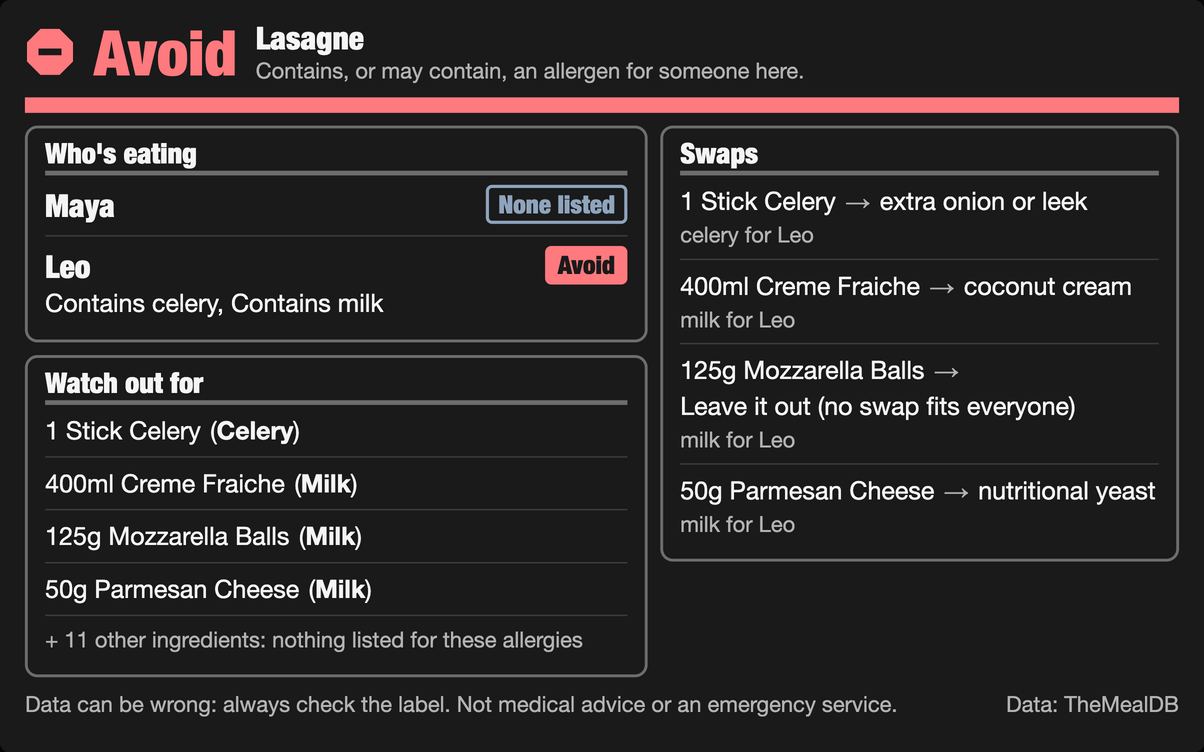
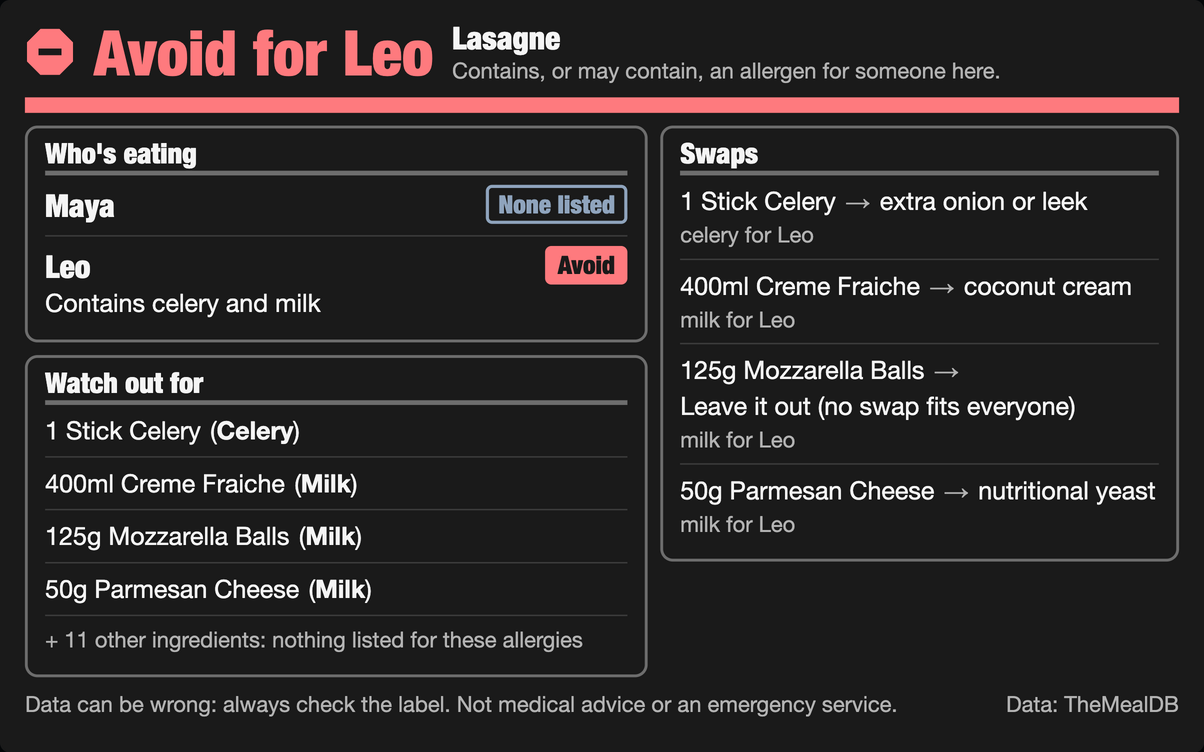
docs: demo video v9

Changed region(s): [[0.2151, 0.0306, 0.8297, 0.1223], [0.1844, 0.3976, 0.338, 0.4282]]

diff --git a/docs/SUBMISSION.md b/docs/SUBMISSION.md
@@ -15,8 +15,10 @@ An Alexa+ add-on that tells you who at the table can eat a dish or a scanned foo
 
 Who at the table can eat tonight's dinner, and why? Allergy Crosscheck answers that by voice and on the Echo Show screen, for the whole household and its guests, from a recipe or a scanned product. When the data can't back an answer, it says "I can't confirm" instead of guessing.
 
+What is real and what is simulated: the MCP server, the allergen engine, the Echo Show screen and the phone scan are the shipped code; the Alexa+ host in the video is a simulator driven by a local model, because the MCP Toolkit is available in the United States and I am outside it (details under "Simulated Alexa+" below).
+
 ### Inspiration
-Two real records from Open Food Facts, the open database behind many allergy apps. A chocolate hazelnut spread has an empty allergen list and no ingredient list, so a checker that trusts the list would call it allergen-free. A hot cocoa mix lists soy as its only allergen, while its ingredients include nonfat dry milk, whey and caseinate. A voice assistant that answers confidently from data like that is dangerous. One that knows when it doesn't know is useful.
+Two real records from Open Food Facts, the open database behind many allergy apps. A chocolate hazelnut spread has an empty allergen list and no ingredient list, so a checker that trusts the list would call it allergen-free. A hot cocoa mix lists soy as its only allergen and milk only as a "may contain", while its ingredients include nonfat dry milk, whey and caseinate. A voice assistant that answers confidently from data like that is dangerous. One that knows when it doesn't know is useful.
 
 This is common. I ran the engine over all 4,784,317 Open Food Facts records (snapshot of 7 October 2026). 72.3% of them list no allergens, no "may contain", and have no ingredient list. So do 53.2% of the products scanned in the Open Food Facts app. A checker that trusts the list would say "no allergens" for each one; this one says "can't confirm". Details: [`packages/allergen-guard/bench/README.md`](packages/allergen-guard/bench/README.md). Data: Open Food Facts (ODbL).
 
@@ -41,7 +43,7 @@ Say Maya can't have peanuts or tree nuts, and Leo from next door, who can't have
   - **MCP Apps:** the Echo Show screen, with tap-to-choose that calls back into the server (`public/widget.html`).
   - **Cards, partly:** the screen is made of card panels: "Who's eating", "Watch out for", "Swaps", "Which one?" and "Shopping list". These are HTML sections I drew inside the MCP Apps view, not Alexa+'s own card or carousel components, and there are no images or media.
   - **Not built:** purchasing, and Agent Skills.
-  - **A cross-check, not a lookup:** a product's allergen tags, traces and ingredient text are read together, which is how it finds the milk that the cocoa mix's tags leave out.
+  - **A cross-check, not a lookup:** a product's allergen tags, traces and ingredient text are read together, which is how the cocoa mix's "may contain milk" becomes a firm "contains milk" with the ingredients named.
 - **Self-hosted MCP server** in TypeScript with the MCP TypeScript SDK 1.32. It uses MCP spec **2025-11-25** over **Streamable HTTP**, is stateless, and has 9 tools. Every check result (`check_recipe`, `check_product`) leads with a `VERDICT:` line, and every result carries the exact sentence to say, plus `structuredContent` for the screen.
 - **MCP Apps screen** for the Echo Show (`text/html;profile=mcp-app`), following the Alexa+ MCP design guide's base canvas, zoom, touch-target and contrast figures, and using the `hostContext` fields theme, safeAreaInsets, maxWidth and maxHeight:
   - authored at the guide's 768×480 base canvas with its type, spacing and corner-radius tokens; the widget applies one root scale from `hostContext` maxWidth/maxHeight, 1.667 for the Echo Show 8's 1280×800 (guide figures), and each demo verdict fits both with no scrolling (measured in headless Chrome, not on a real Echo Show);
@@ -84,7 +86,7 @@ Say Maya can't have peanuts or tree nuts, and Leo from next door, who can't have
 ### Accomplishments that I'm proud of
 - The server's results never call a food "safe"; the engine's tests check that, and a simulator test checks that a fake model's "totally safe" is overridden. On a real Alexa+ the spoken words are the model's.
 - One spoken question checks everyone at the table, including a guest who drops off after the visit.
-- It finds the milk in a real cocoa mix whose allergen tags miss it.
+- In a real cocoa mix whose tags carry milk only as "may contain", it shows the milk is in the ingredients.
 - It follows MCP spec 2025-11-25 over Streamable HTTP, with an MCP Apps screen authored at the Alexa+ 768×480 base canvas and checked in an Echo Show 8 simulator frame (untested on a real Echo Show).
 - The language model runs locally (Qwen3.5 9B, 4-bit, MLX), with no cloud LLM API; product and recipe data come live from Open Food Facts and TheMealDB.
 
@@ -107,14 +109,15 @@ alexa+, model-context-protocol, mcp-apps, streamable-http, typescript, node.js, 
 - Code repository: <GitHub URL, once the author decides private or public>
 
 ## Video demo link
-<YouTube URL, after the upload>. The file is `docs/video/allergy-crosscheck-demo.mp4` (2:57, 4K at 60 fps, recorded 11 October 2026), with captions in `docs/video/allergy-crosscheck-demo.srt`.
+<YouTube URL, after the upload>. The file is `docs/video/allergy-crosscheck-demo.mp4` (2:50, 4K at 60 fps, recorded 12 October 2026), with captions in `docs/video/allergy-crosscheck-demo.srt`.
 
 ## Image gallery (upload in this order)
 Files are in `docs/video/gallery/`, padded to 3:2.
 1. `1-cannot-confirm.png`: "Missing product data: 'Can't confirm', never 'allergen-free'."
 2. `2-lasagne-check.png`: "One question gives a verdict for everyone at the table, with swaps checked against all of them."
-3. `3-product-check.png`: "The allergen tags say soy; the ingredient text adds the milk."
+3. `3-product-check.png`: "The allergen tags say soy, and milk only as a 'may contain'. The ingredient text shows the milk is in it."
 4. `4-phone-scan.png`: "Scan on your phone, then ask about 'what I just scanned'."
+5. `5-sunday.png`: "A new session the day after: the household is remembered, the guest's visit is over."
 
 ## Additional info (the hackathon's questions)
 
@@ -132,7 +135,7 @@ Node 22.6 or newer. Run `npm install && npm start`, then open http://127.0.0.1:8
 
 The demo-script buttons call the MCP tools directly and need no model or API key. They reproduce the video's checks:
 - the spread with no ingredient list gives "Can't confirm";
-- the cocoa mix whose tags miss the milk gives "Avoid" for Leo.
+- the cocoa mix whose tags carry milk only as "may contain" gives "Avoid" for Leo, with the milk ingredients named.
 
 To talk to it, set `LLM_BASE_URL` and `LLM_MODEL` to any OpenAI-compatible endpoint with tool calling (see the README). Any MCP client can connect to `http://127.0.0.1:8787/mcp`. `npm test` runs the 146 tests.
 
@@ -167,7 +170,7 @@ For each tool: what it was used for, what worked, what needs work, onboarding, a
 - **Onboarding:** the spec plus the Alexa+ design guide was enough to get a first screen. The host shim I built to test it is part of the simulator.
 
 **Alexa developer console: Voice & Tone** (Test tab)
-- **Used for:** Alexa's five lines in the demo video, in Amazon's own Alexa voice.
+- **Used for:** Alexa's six lines in the demo video, in Amazon's own Alexa voice.
 - **Worked well:** the voice is the real one, and the page's own `getTTS` call returns the audio as a base64 MP3.
 - **Needs work:** no export or download control, and the editor adds its own closing `</speak>` tag, so a typed one causes a 400 (friction log 6).
 - **Onboarding:** the Test tab only opens once a skill exists, so I created an empty private skill for it. Account sign-up also rejected a diacritic in my legal name (friction log 7).
@@ -236,7 +239,7 @@ Paste `docs/FRICTION_LOG.md`: seven entries, in the format the rules ask for.
 - **Why it matters:** allergy features keep being rebuilt in apps and assistants, and the easy version (trust the allergen tags, answer "safe") is dangerous. This gives anyone a tested, fail-closed core. It has 92 tests of its own, including 54 ingredient–allergen pairs that must never pass. The Open Food Facts measurement (above) shows the failure it prevents. The engine is open source (MIT), so any allergy feature can start fail-closed.
 
 ## YouTube upload (not part of the Devpost form)
-- **File:** `docs/video/allergy-crosscheck-demo.mp4` (2:57, 4K at 60 fps), with captions in `docs/video/allergy-crosscheck-demo.srt` (English).
+- **File:** `docs/video/allergy-crosscheck-demo.mp4` (2:50, 4K at 60 fps), with captions in `docs/video/allergy-crosscheck-demo.srt` (English).
 - **Title:** Allergy Crosscheck: who at the table can eat it, and why (Alexa+ hackathon demo)
 - **Visibility:** Public. The rules say "publicly visible", and Unlisted may not count. This is the author's call.
 - **Altered or synthetic content:** yes. The voices are synthetic: Alexa's lines are Amazon's Alexa voice from the developer console; the narrator and the user are AI-generated.
@@ -252,15 +255,16 @@ Built for Amazon's Build, Ship, Shape hackathon (Alexa+ track): a self-hosted MC
 
 Code: <repository URL>
 
-0:00 The problem: a record with an empty allergen list
-0:18 What it does: who at the table can eat it, and why
-0:31 Saving the household and a guest
-0:55 Checking tonight's lasagne for everyone
-1:29 Scan on a phone: missing data means "can't confirm"
-1:48 A cocoa mix whose tags miss the milk
-2:14 Keeping the model honest
-2:23 How it's built
-2:36 Who it's for, and the open engine
+0:00 Cold open: the lasagne verdict
+0:06 The problem: a record with an empty allergen list
+0:32 The simulator
+0:38 Saving the household and a guest
+0:58 Checking the lasagne for everyone
+1:25 Scan on a phone: missing data means "can't confirm"
+1:44 A cocoa mix: the tags say "may contain" milk, the ingredients show it is in
+2:07 Sunday: the guest's visit is over
+2:19 How it's built
+2:31 Who it's for, and the open engine
 ```
 
 ## Repository access (not part of the Devpost form)

diff --git a/docs/DEMO.md b/docs/DEMO.md
@@ -1,13 +1,13 @@
 # Demo video
 
-The submitted video (2:57, 3840×2160 at 60 fps, recorded 11 October 2026) is a real run, not a mock-up:
+The submitted video (2:50, 3840×2160 at 60 fps, recorded 12 October 2026) is a real run, not a mock-up:
 - The simulator was recorded in headless Chrome while a local model (Qwen3.5 9B, MLX) drove the MCP server, with live Open Food Facts and TheMealDB data.
 - The waits for the model were cut.
-- The server's clock was set to 8 October 2026 12:00, the day Alexa's lines were captured, so the guest's end date ("until Saturday 10 October") and every answer match those captures.
+- The server's clock was set to 8 October 2026 12:00 for the first session, so the guest's end date ("until Saturday 10 October") and every answer match Alexa's captured lines. The last turn is a second session on the same household file with the clock at 11 October 2026, the day after the guest's visit ended: the server was restarted, the conversation started fresh, and the household came back from disk.
 - Frames were captured losslessly at 2× device scale (Chrome DevTools screencast) and encoded once at the end, so the text stays sharp at 4K.
 - The simulator shows the screen as an Echo Show 8 would (1280×800, scaled to fit). Captions and the short labels were added in editing, timed to the spoken words; zooms and the dimming around them were recorded in the browser.
 - The opening and closing slides are HTML pages recorded the same way.
-- Alexa's lines are Amazon's own Alexa voice, rendered in the Alexa developer console (a private test skill, Test tab, Voice & Tone) from the exact text the run returned.
+- Alexa's six lines are Amazon's own Alexa voice, rendered in the Alexa developer console (a private test skill, Test tab, Voice & Tone) from the exact text the run returned; the recorder stops if a run's sentence differs from the rendered text.
 - The narrator and the user are local text-to-speech with Boson AI's Higgs Audio (Higgs TTS 3), used under its Creator Use Grant, from reference voices made for this project, so no real person's voice is imitated.
 - Credit, as the licence asks: "This audio was created with Boson AI's Higgs Audio — https://www.boson.ai/higgs-audio".
 - Alexa's lines are exactly what the run returned. Every clip was checked against its script with Whisper.
@@ -16,22 +16,25 @@ The submitted video (2:57, 3840×2160 at 60 fps, recorded 11 October 2026) is a 
 
 ## Script
 
-| On screen | Audio |
-|---|---|
-| A product record: chocolate hazelnut spread, allergens none listed, ingredients missing; a stamp: "A checker that trusts this list: 'No allergens'"; then "4.8 million records in Open Food Facts" and "53% of the products people scan look like this" | "This is a real product record from Open Food Facts: a chocolate hazelnut spread, with an empty allergen list. A checker that only trusts that list would call it allergen-free." "It's not rare: of 4.8 million products in Open Food Facts, more than half of the ones people scan look like this." |
-| Title card with the three verdicts | "Allergy Crosscheck is an Alexa+ add-on that tells you who at the table can eat it, and why." |
-| Simulator, idle | "This is a simulated Alexa+ on an Echo Show: a local AI model drives my MCP server." |
-| Voice turn | User: "Alexa, save Maya. She's allergic to peanuts and tree nuts." Alexa confirms. |
-| Voice turn | User: "Leo from next door is coming on Saturday. He can't have dairy or celery." Alexa: "…guest Leo until Saturday 10 October: milk and celery." Narrator: "It remembers the household across sessions, and stops checking for guests after their visit." |
-| Voice turn: the lasagne verdict, then zooms on the cards | User: "Check tonight's lasagne for Saturday." Alexa: "Leo should avoid this: it contains celery and milk…" Narrator: "For Leo, it's avoid, with the exact ingredients." "For Maya, none of her allergens are listed. That's the yes, as far as the data goes." "Every swap is checked against everyone: no dairy-free cheese, because it's often made from cashews." |
-| Phone scan: the spread's barcode, on the scan page | Narrator: "Reading out a barcode is tedious. Scan it on your phone, then just ask." |
-| Voice turn | User: "Can Maya and Leo have what I just scanned?" Alexa: "I can't confirm this is OK for Maya and Leo: the ingredient list is missing from the product data…" |
-| Phone scan: a hot cocoa mix | (the scan page finds it) |
-| Voice turn, zoom on "What I found" | User: "And this one I just scanned?" Alexa: avoid for Leo (milk, in the whey, caseinate and lactose), can't confirm for Maya. Narrator: "This record lists soy as its only allergen, and milk only as 'may contain'. Crosscheck reads the ingredients and finds the milk." |
-| Slide: keeping the model honest (a model draft with no tool call, struck through and replaced by the simulator's sentence; the tool's own verdict, spoken word for word) | "On a real model, I caught it claiming a save it never made, so my simulator now holds it to the verdict, word for word." The draft on the slide is an example of that kind of claim; the replacement is the simulator's exact sentence. |
-| Slide: under the hood (Alexa+ → MCP server → MCP Apps screen; allergen engine → open data) | "Under the hood: a self-hosted MCP server with nine tools, an MCP Apps screen built to the Alexa+ design guide, and an open-source allergen engine measured on 4.8 million real products." |
-| Slide: 1 in 15 US adults, with the source (CDC, National Health Interview Survey 2024, released 8 January 2026: 6.7% of adults, 5.3% of children) | "About one in fifteen adults in the US has a food allergy, and every shared meal means checking for everyone. Allergy Crosscheck does that check, says so when it can't, and its engine is open source, so any allergy feature can start fail-closed." |
-| End card | "Allergy Crosscheck: who at the table can eat it, and why." |
+| At | On screen | Audio |
+|---|---|---|
+| 0:00 | Cold open: the lasagne verdict screen, "Avoid for Leo"; label "Simulated Alexa+ · Amazon's Alexa voice" | Alexa: "Leo should avoid this: it contains celery and milk, in the celery, creme fraiche and mozzarella." |
+| 0:06 | A product record: chocolate hazelnut spread, allergens none listed, ingredients missing; a stamp: "A checker that trusts this list: 'No allergens'"; then "4.8 million records in Open Food Facts" and "53% of the products people scan look like this" | "This is a real product record from Open Food Facts: a chocolate hazelnut spread, with an empty allergen list. A checker that only trusts that list would call it allergen-free." "Of 4.8 million products in Open Food Facts, more than half of the ones people scan look like this." |
+| 0:22 | Title card: "Alexa+ remembers your allergies." above the title, then the two-line lead and the three verdicts | "Alexa+ already remembers your allergies. Allergy Crosscheck checks the food: who at the table can eat it, and why." |
+| 0:32 | Simulator, idle | "This is a simulated Alexa+ on an Echo Show: a local AI model drives my MCP server." |
+| 0:38 | Voice turn | User: "Alexa, save Maya. She's allergic to peanuts and tree nuts." Alexa confirms. |
+| 0:46 | Voice turn; label "Remembers the household across sessions" | User: "Leo from next door is coming on Saturday. He can't have dairy or celery." Alexa: "…guest Leo until Saturday 10 October: milk and celery." |
+| 0:58 | Voice turn: the lasagne verdict, then zooms on Maya's row and the swaps; labels "The yes: none of her allergens listed" and "Coconut isn't a tree nut (EU 14; FDA, January 2025)" | User: "Check the lasagne." Alexa: "Leo should avoid this: it contains celery and milk, in the celery, creme fraiche and mozzarella. Nothing listed for Maya's allergies, but check the label. Swaps are on the screen." Narrator: "For Maya, none of her allergens are listed. That's the yes, as far as the data goes." "Every swap is checked against everyone: no dairy-free cheese, because it's often made from cashews." |
+| 1:25 | Phone scan: the spread's barcode, on the scan page | Narrator: "Reading out a barcode is tedious. Scan it on your phone, then just ask." |
+| 1:30 | Voice turn; label "Missing data never becomes 'no allergens'" | User: "Can Maya and Leo have what I just scanned?" Alexa: "I can't confirm this is OK for Maya and Leo: the ingredient list is missing from the product data. Treat it as unsafe and check the label." |
+| 1:40 | Phone scan: a hot cocoa mix | (the scan page finds it) |
+| 1:44 | Voice turn, zoom on "What I found"; label "Reads the ingredients, not just the list" | User: "And this one I just scanned?" Alexa: avoid for Leo (milk, in the whey, caseinate and lactose), can't confirm for Maya. Narrator: "The allergen tags say soy, and milk only as a 'may contain'. The ingredient text shows the milk is in it." |
+| 2:07 | Card "Sunday 11 October · a new session", then the idle simulator and the lasagne check again: Maya "None listed", Leo "guest · visit ended Sat 10 Oct · not checked"; label "Next day, new session: household kept, guest not checked" | User: "Check the lasagne again." Alexa: "Leo's visit ended on Saturday 10 October, so I didn't check for them. Nothing listed for Maya's allergies, but check the label." |
+| 2:19 | Slide: under the hood (Alexa+ → MCP server → MCP Apps screen; allergen engine → open data) | "Under the hood: a self-hosted MCP server with nine tools, an MCP Apps screen built to the Alexa+ design guide, and an open-source allergen engine measured on 4.8 million real products." |
+| 2:31 | Slide: 1 in 15 US adults, with the source (CDC, National Health Interview Survey 2024, released 8 January 2026: 6.7% of adults, 5.3% of children) | "About one in fifteen adults in the US has a food allergy, and every shared meal means checking for everyone. Allergy Crosscheck does that check, says so when it can't, and its engine is open source." |
+| 2:44 | End card | "Allergy Crosscheck: who at the table can eat it, and why." |
+
+The point the v8 video made on a slide ("keeping the model honest": the simulator's verdict lock and no-tool guard) is now only in the docs: SUBMISSION "Simulated Alexa+" and README "Limits".
 
 ## Recording it yourself
 

diff --git a/README.md b/README.md
@@ -20,7 +20,7 @@ npm start    # then open http://127.0.0.1:8787/ and press the demo script button
 | Missing product data: "can't confirm", never "allergen-free" | A recipe check: verdict per person, the risky lines, swaps checked against everyone |
 |---|---|
 | ![Can't confirm](docs/screenshots/cannot-confirm.png) | ![Lasagne check](docs/screenshots/lasagne-check.png) |
-| **Allergen tags say soy; the ingredient text adds milk** | **A guest saved until Saturday: not checked after the visit** |
+| **Allergen tags say soy, milk only "may contain"; the ingredient text shows it is in** | **A guest saved until Saturday: not checked after the visit** |
 | ![Product check](docs/screenshots/product-check.png) | ![Household](docs/screenshots/household.png) |
 
 Screens from the recorded demo run: a local model driving the server, with live data. They show the screen's earlier layout, from before it was moved to the 768×480 base canvas.
@@ -57,7 +57,7 @@ npm ci
 npm start                     # MCP: http://127.0.0.1:8787/mcp   Simulator: http://127.0.0.1:8787/
 ```
 
-Open the simulator and use the **demo script** buttons. They need no LLM. Each button is one MCP tool call, and they reproduce the video's checks: the spread with no ingredient list ("Can't confirm") and the cocoa mix whose tags miss the milk ("Avoid" for Leo).
+Open the simulator and use the **demo script** buttons. They need no LLM. Each button is one MCP tool call, and they reproduce the video's checks: the spread with no ingredient list ("Can't confirm") and the cocoa mix whose tags carry milk only as "may contain" ("Avoid" for Leo: the ingredients name it).
 
 To talk to it, point it at any OpenAI-compatible endpoint with tool calling:
 
